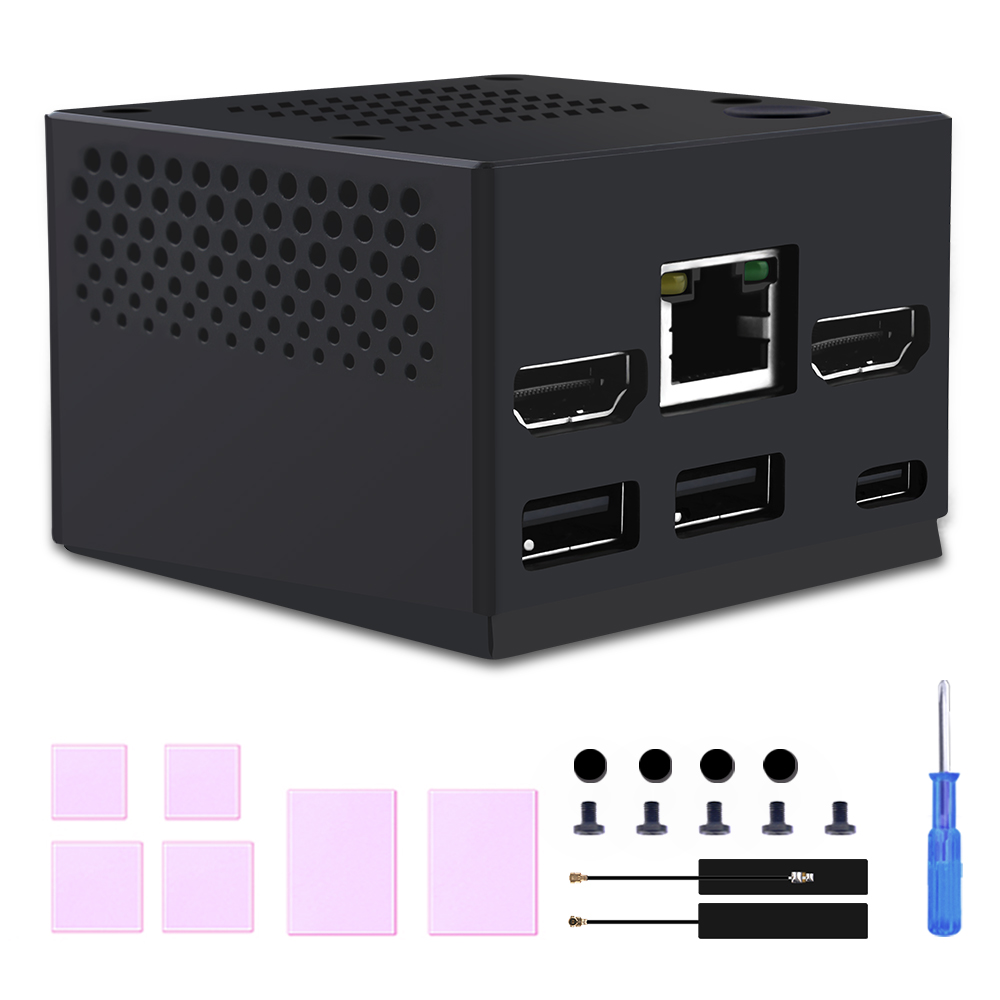
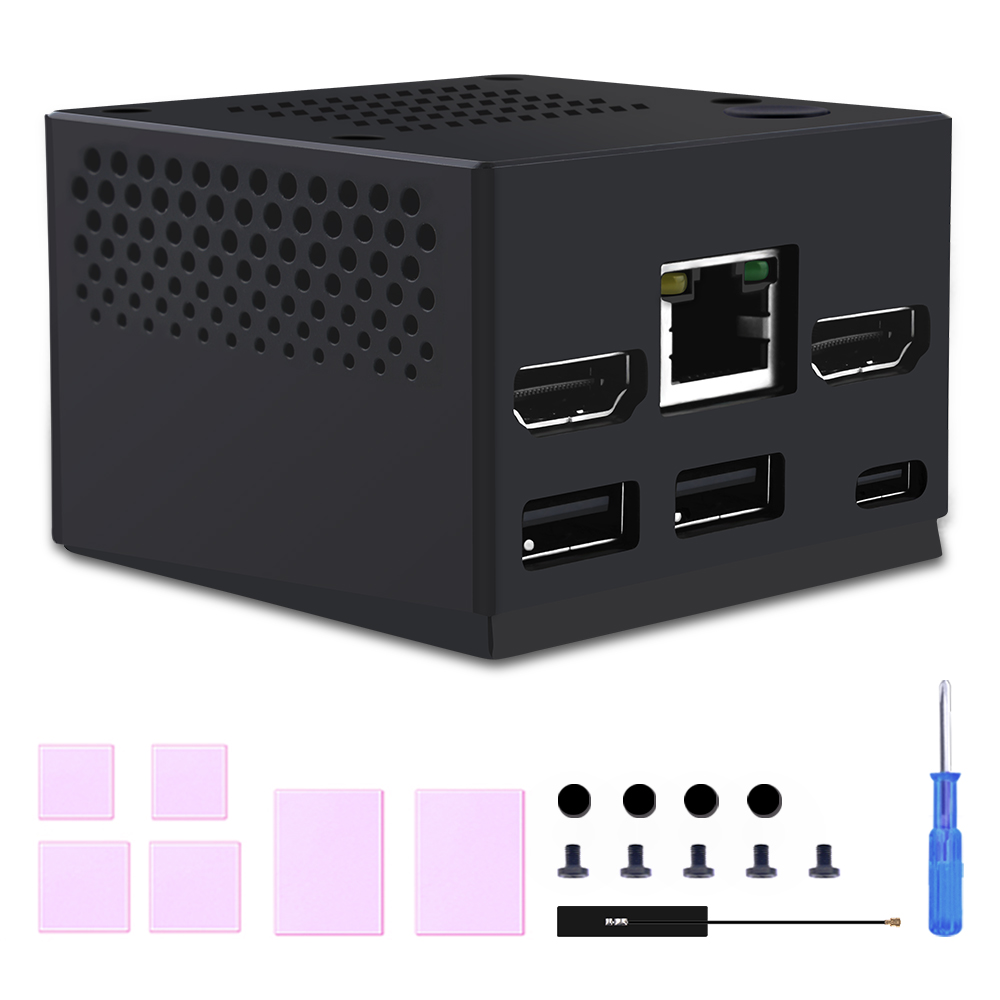
update minipc and expansionkit

diff --git a/wiki/docs/minipc.md b/wiki/docs/minipc.md
@@ -10,7 +10,7 @@
 ## Purchase 
 ![chart](./imgs/picomate/shoppingchart.jpg)
 
-[DeskPi Mini Cube](https://deskpi.com/collections/deskpi-minicube)
+[DeskPi Mini Cube](https://deskpi.com/products/deskpi-mini-cube-for-raspberry-pi-compute-module-4-cm4?_pos=1&_psq=DeskPi%20Cube&_ss=e&_v=1.0)
 
 ## Description 
 DeskPi Mini Cube for Raspberry Pi CM4 is a case with a miniature appearance and extremely portable features.
@@ -65,6 +65,10 @@ The 40Pin GPIO lead out and reserved RTC clock battery interface.
 	- Impedance: 5Ohm.
 	- Gain: About 3 dBi.
 ![IPEX1 Antenna](./imgs/deskpiminicube/DP-0019-11.jpg)
+### Install IPEX Antenna 
+Add the antenna as following figure, and then remove the protection film on back of the antenna, and then paste it inside the case. 
+![Install Antenna](./imgs/deskpiminicube/DP-0019-13.jpg)
+
 ## RTC Battery Information 
 ear RTC Battery `dose not` include in the package, additional purchase required! 
 * Fit for: laptop CMOS Battery, Recommended `CR1220 3V` with `ZH1.25` Connector.

diff --git a/wiki/docs/index.md b/wiki/docs/index.md
@@ -7,6 +7,10 @@ Here you can provide product descriptions, product features, product documents, 
 
 ## Product List
 ### DeskPi Series
+  - DeskPi Mini PC [DP-0019](https://deskpi.com/products/deskpi-mini-cube-for-raspberry-pi-compute-module-4-cm4?_pos=1&_psq=DeskPi%20Cube&_ss=e&_v=1.0) ![DeskPi Mini PC](./imgs/deskpiminicube/DP-0019-1.jpg)
+
+  - DeskPi Lite Expansion Kit [DP-0018](https://deskpi.com/collections/deskpi-lite/products/deskpi-lite-m-2-sata-expansion-board-for-raspberry-pi-4-only-compatible-with-deskpi-lite-case) ![DeskPi Lite Expansion Kit](./imgs/expansionkit/1.jpg)
+
   - DeskPi Pro [DP-0001](https://deskpi.com/collections/frontpage) ![DeskPi Pro](./imgs/deskpipro/DP-0001-6.jpg)
 
   - DeskPi Nano [DP-0002](https://deskpi.com/collections/deskpi-nano) ![DeskPi Nano](./imgs/deskpinano/DP-0002-2.jpg)

diff --git a/wiki/docs/expansionkit.md b/wiki/docs/expansionkit.md
@@ -15,7 +15,7 @@ Overall, the M.2 SATA SSD driver expansion board for DeskPi Lite enhances the st
 
 ## Purchase 
 ![chart](./imgs/picomate/shoppingchart.jpg)
-[DeskPi Lite M.2 SATA SSD Expansion Kit](https://www.amazon.de/dp/B0C6SSHS65?ref=myi_title_dp)
+[DeskPi Lite M.2 SATA SSD Expansion Kit](https://deskpi.com/collections/deskpi-lite/products/deskpi-lite-m-2-sata-expansion-board-for-raspberry-pi-4-only-compatible-with-deskpi-lite-case)
 
 ## Features
 * **Storage Expansion:** The expansion board allows you to add extra storage to your DeskPi Lite system, enabling you to store more files, applications, and media.  
